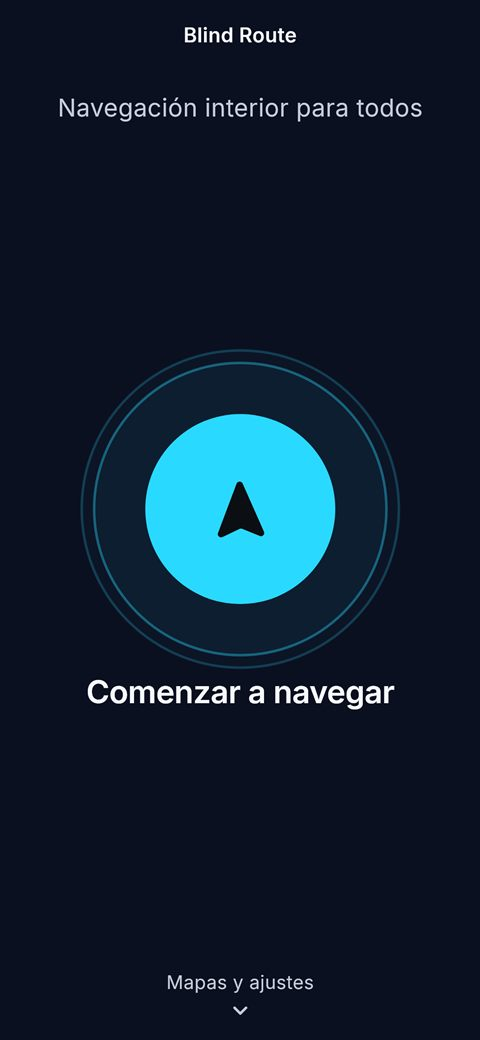
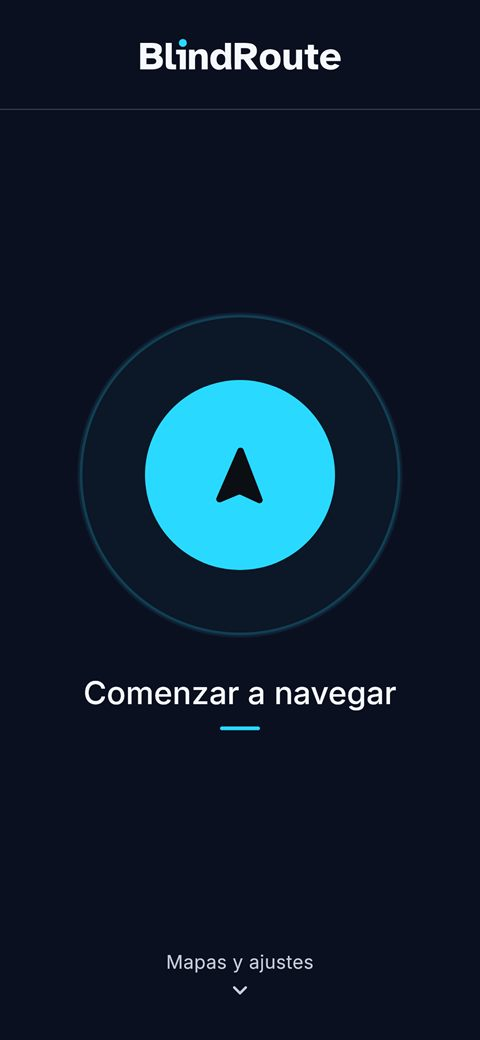
Capturas del inicio con el logotipo y seccion nueva en el documento de la estetica

diff --git a/docs/ESTETICA.md b/docs/ESTETICA.md
@@ -202,11 +202,23 @@ El fondo pasó del gris azulado `#1A1F29` a un azul muy oscuro, `#0B1020`, más 
 En el inicio se sacó la aclaración que iba debajo de "Comenzar a navegar", de modo que el círculo queda con el título solo. TalkBack no la leía, así que para quien navega sin mirar no cambió nada. La Figura 12 muestra el inicio, la navegación y la configuración del piso con el fondo nuevo, y son las mismas capturas que usa el README.
 
 <p align="center">
-  <img src="estetica/actual-inicio.jpg" width="170" alt="Inicio con el fondo azul oscuro y el círculo cian, sin la aclaración debajo del título.">
+  <img src="estetica/actual-inicio.jpg" width="170" alt="Inicio con el fondo azul oscuro, el logotipo arriba y el círculo cian.">
   <img src="estetica/actual-guiando.jpg" width="170" alt="Navegación guiando con el fondo azul oscuro.">
   <img src="estetica/actual-zonas.jpg" width="170" alt="Configuración del piso en el modo Zonas con el fondo azul oscuro.">
 </p>
 <p align="center"><em>Figura 12. Inicio, navegación y configuración del piso con el fondo azul oscuro.</em></p>
+
+### Logotipo en el inicio
+
+La barra del inicio dejó de decir "Blind Route" en letra chica y ahora muestra el logotipo del kit de marca (`docs/marca`), con las letras en blanco y el punto de la i en cian, centrado y fijo. Se dibuja con los mismos trazos del SVG del kit, copiados tal cual y leídos por un lector propio, sin paquetes ni imágenes, de modo que se ve nítido con cualquier densidad de pantalla, y un test compara esos trazos con los del archivo del kit. El logotipo queda centrado en altura entre el borde de arriba de la pantalla y una línea fina y clara que separa la barra del resto, no crece con la letra del teléfono, y TalkBack lo sigue leyendo como el título de la pantalla, "Blind Route".
+
+En la misma pasada se sacó la frase "Navegación interior para todos", que iba arriba del círculo, y "Comenzar a navegar" bajó para no quedar pegado al anillo de las ondas, con una letra más liviana y una raya corta de cian debajo que lo une al círculo. TalkBack no lee la raya, y el orden en que recorre la pantalla queda en el título, el botón y las filas de abajo. La Figura 13 muestra el inicio con la letra al 115 % y al 200 %, y la captura de la izquierda es también la del README y la de la Figura 12.
+
+<p align="center">
+  <img src="estetica/actual-inicio.jpg" width="180" alt="Inicio con el logotipo BlindRoute centrado arriba, una línea fina debajo y el círculo cian con Comenzar a navegar.">
+  <img src="estetica/actual-inicio-200.jpg" width="180" alt="El mismo inicio con la letra al 200 %, con Comenzar a navegar en dos renglones.">
+</p>
+<p align="center"><em>Figura 13. El inicio con el logotipo, con la letra al 115 % y al 200 %.</em></p>
 
 ## 3. Pendientes
 

diff --git a/README.md b/README.md
@@ -18,7 +18,7 @@
 
 <table align="center">
   <tr>
-    <td align="center" width="33%"><img src="docs/estetica/actual-inicio.jpg" width="220" alt="Pantalla de inicio con un círculo celeste en el centro para comenzar a navegar."></td>
+    <td align="center" width="33%"><img src="docs/estetica/actual-inicio.jpg" width="220" alt="Pantalla de inicio con el logotipo arriba y un círculo celeste en el centro para comenzar a navegar."></td>
     <td align="center" width="33%"><img src="docs/estetica/actual-guiando.jpg" width="220" alt="Pantalla de navegación con la indicación para seguir derecho 11 metros, la ruta sobre el plano y la posición de la persona."></td>
     <td align="center" width="33%"><img src="docs/estetica/actual-llegaste.jpg" width="220" alt="Pantalla de navegación con el aviso de llegada y los tramos recorridos en verde."></td>
   </tr>
